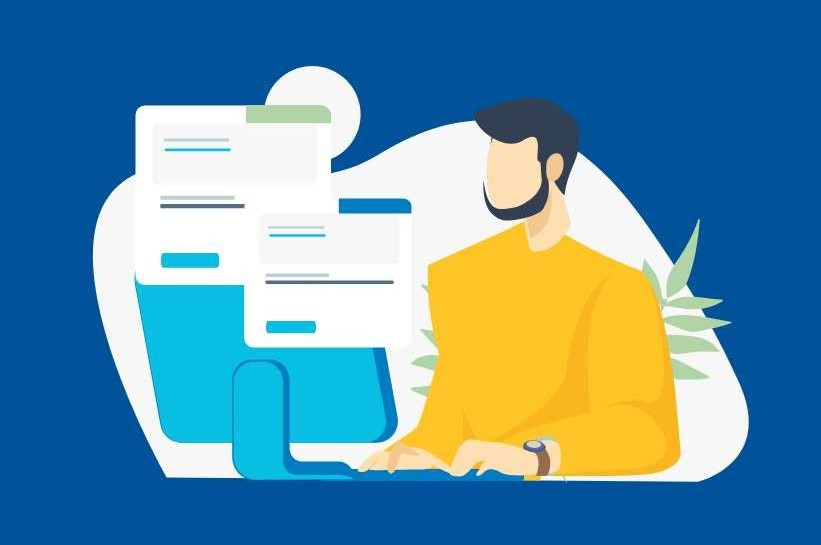
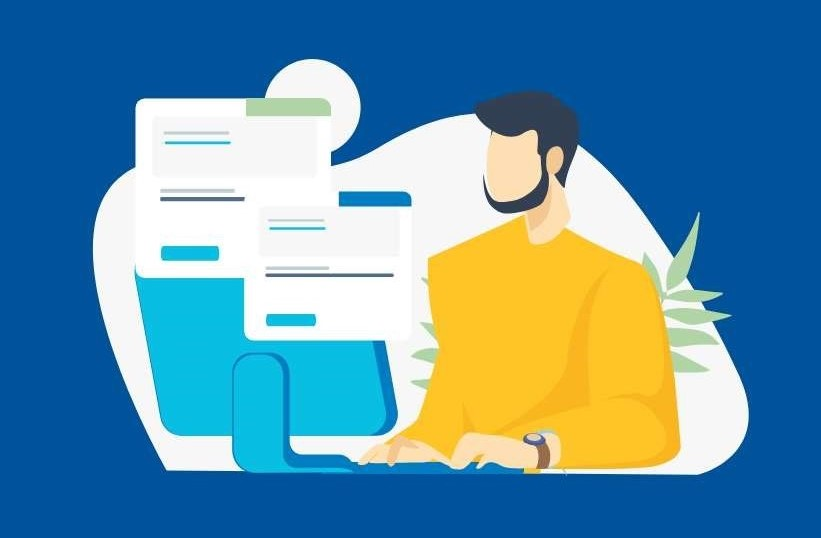
Arreglo tamaños

diff --git a/login.html b/login.html
@@ -26,10 +26,13 @@
     </div>
     <div class="container-fluid">
         <div class="row form-inline">
-            <div class="col-md-8">
+            <div class="col-lg-6 col-md-4 d-none d-lg-block">
                 <img src="./images/grupoArcor.jpg">
+            </div>    
+            <div class="col-md-1">
+
             </div>
-            <div class="col-sm-3">
+            <div class="col-sm-10 col-lg-4 col-md-10">
                 <div class="wrapper">
                     <h1 style="color: white;">Bienvenido</h1>
                     <form class="form" name="IDPLogin" enctype="application/x-www-form-urlencoded" method="POST"
